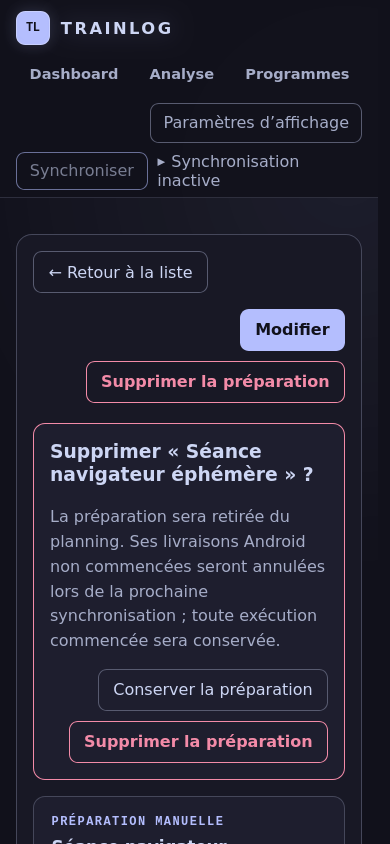
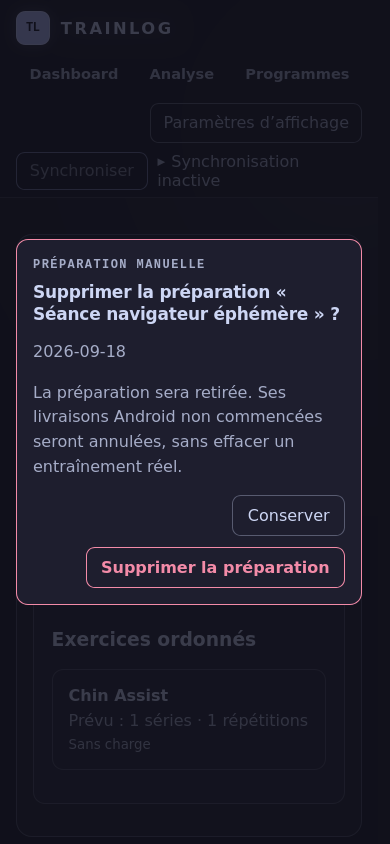
docs(web): document deletion and program v1

diff --git a/docs/program_format_v1.md b/docs/program_format_v1.md
@@ -1,0 +1,62 @@
+# Trainlog Program format V1
+
+`trainlog-program` V1 is a strict desktop import format for planning data. It
+does not change `TRAINLOG_FORMAT_V1` and is not an Android synchronization
+artifact.
+
+## Identity and ownership
+
+A program, each ordered session definition and each ordered exercise occurrence
+has a non-empty stable import identity of at most 128 UTF-8 bytes. The `pg_`,
+`pgs_`, and `pge_` UUIDv4 forms are recommended creator forms, while imported
+identities remain opaque. Display titles are not identities. A program is not a
+reusable session template, AI proposal, manual preparation, execution draft or
+completed session.
+
+Desktop schema v25 owns the imported program and its exact source SHA-256.
+Exact same-ID content replay is idempotent. The same ID with a different byte
+payload is an explicit conflict. A different ID may reuse a title because titles
+have no identity semantics.
+
+## Document shape
+
+The root has exactly `format`, `version`, and `program`, with format
+`trainlog-program` and integer version `1`. The program object has exactly:
+
+- `program_id`, `title`, nullable `note`, `state`, nullable `start_date`,
+  nullable `end_date`, and `sessions`;
+- state `active` on import;
+- 1–64 ordered sessions;
+- title length 1–200 UTF-8 bytes and note length at most 4,000;
+- canonical `YYYY-MM-DD` civil dates, with the end not before the start.
+
+Each session has exactly `program_session_id`, `title`, `session_type`, nullable
+`planned_for`, nullable `note`, and `occurrences`. Session type is `training` or
+`max_test`; each session contains 1–64 occurrences.
+
+Each occurrence has exactly `entry_id`, `exercise_id`, nullable `equipment_id`,
+`load_mode`, `rest_seconds`, nullable `target_sets`, nullable `target_reps`,
+nullable `target_duration_seconds`, nullable `target_weight_kg`, and nullable
+`notes`. Exercise and equipment identities must already resolve in the desktop
+catalog. Recording/tracking profiles and target/load combinations are validated
+by the same Core rules used for manual preparations. No actual set, MAX result,
+completion timestamp or other performed field is accepted.
+
+The complete UTF-8 JSON document is limited to 512 KiB. Duplicate object keys,
+unknown keys, non-finite numbers, invalid UTF-8, duplicate identities, excessive
+collections and incompatible profiles are rejected before any row is written.
+
+## Preview, commit and lifecycle
+
+The Web file picker sends bytes to the Core validation endpoint first. Its
+preview reports identity, title, dates, session count, unknown-exercise count
+and warnings while leaving the database unchanged. Import occurs only after the
+user confirms and commits all program/session/occurrence/source rows in one
+transaction.
+
+Archive is a revision-guarded lifecycle transition. It hides no derived data
+and retains the source definition and digest. Creating a preparation from one
+session is a separate idempotent command that copies the ordered plan and stores
+program/session provenance on a new `sp_<uuid-v4>` manual preparation. It does
+not create a delivery, Android object, execution draft, completed session or
+performed measurement.

diff --git a/docs/current_state.md b/docs/current_state.md
@@ -52,7 +52,7 @@ parallel implementation of its rules.
 | Boundary | Current state |
 |---|---|
 | Frozen project exchange | `TRAINLOG_FORMAT_V1=PASS/FROZEN` |
-| Desktop SQLite | schema v24 |
+| Desktop SQLite | schema v25 |
 | Android SQLite | schema v23 |
 | Mobile snapshot | V3 active; V1/V2 readable legacy inputs; explicit V4 codec staged, not selected by transport |
 | Desktop terminal backend | Notcurses only |
@@ -221,10 +221,11 @@ progression series, an original BODY ZONES SVG, and private versioned layout
 persistence with optimistic conflict and CSRF/Origin protection. It provides no
 automatic browser launch. Sessions provides complete paged preparation,
 resume and history views, stable details, optimistic manual-preparation writes,
-explicit proposal derivation and generation-backed Android delivery. Analyse,
-Programmes and Exercises remain explicit placeholders.
+explicit proposal derivation and generation-backed Android delivery. Programmes
+is implemented as the fourth Sessions subtab; Analyse and Exercises remain
+explicit placeholders, and no standalone Programs route exists.
 
-Desktop schema v24 owns immutable manual-preparation revisions, stable ordered
+Desktop schema v25 owns immutable manual-preparation revisions, stable ordered
 occurrences, persistent HTTP idempotency keys, delivery-to-execution identity,
 and durable revision-bound withdrawal records. Android schema v23 stores
 received preparations and permanent withdrawal results separately from AI
@@ -240,6 +241,19 @@ labels and persisted proposal provenance replace raw enums and digest-only
 presentation. The preparation detail exposes a protected, idempotent **Delete
 preparation** action; withdrawn rows remain technically inspectable but cannot
 be edited or delivered.
+
+Sessions rows expose independent right-edge trash actions and an accessible
+destructive confirmation dialog. Proposal withdrawal preserves derived
+preparations and is propagated by `trainlog-ai-session-drafts` V2; inactive
+execution drafts and completed sessions use revision-guarded causal deletion.
+Active or concurrently changed drafts conflict instead of being erased.
+
+Program V1 is desktop-owned planning data in schema v25. The Sessions Programs
+subtab lists, searches, filters, deep-links and archives programs. Local JSON
+import is strict and bounded, previews through Core before committing, and has
+deterministic replay/conflict behavior. One explicit program-session action
+creates a provenance-bearing manual preparation without Android delivery or
+performed work.
 
 The controlled deployment preserved the installed Android signing identity and
 advanced its private `versionCode` from 13 to 14 without uninstalling or

diff --git a/docs/reviews/web_sessions_delete_programs_v1_evidence.md b/docs/reviews/web_sessions_delete_programs_v1_evidence.md
@@ -1,0 +1,47 @@
+# Web Sessions deletion and Programs V1 evidence
+
+Date: 2026-09-18
+
+This pre-deployment record covers the completed development branch. It does not
+claim installation, migration of real data, service restart, phone validation,
+tagging or release publication.
+
+## Implemented boundaries
+
+- Separate Core commands withdraw manual preparations and AI proposals, or
+  causally delete inactive execution drafts and explicitly selected completed
+  sessions. They require current revisions and durable request identities.
+- Proposal withdrawal retains its import ledger and every derived preparation.
+  The V2 AI-proposal companion publishes a permanent Android tombstone; an
+  older V1 proposal cannot recreate it. Started executions and performed work
+  are not proposal-deletion effects.
+- The row trash action is independent from detail navigation. The accessible
+  confirmation dialog has initial safe focus, an Escape path, a focus trap and
+  trigger focus restoration.
+- Program V1 remains desktop planning data. Strict preview and transactional
+  import share the Core validator. Archive is lifecycle state, and explicit
+  preparation creation retains program/session provenance without delivery or
+  performed data.
+
+## Validation
+
+- GCC/Web Meson suite: 88/88 passed.
+- Clang strict suite: 86/86 passed.
+- Clang ASan/UBSan suite: 86/86 passed.
+- Frontend typecheck, production build and 93 Vitest tests passed.
+- Android `testDebugUnitTest` and `assembleDebug` passed.
+- JSON, import-contract and Python contract tests passed; the two Firefox tests
+  passed separately in an isolated temporary Python environment.
+- The real embedded server was exercised at desktop size and at an exact
+  390×844 viewport. Its synthetic-only captures include the Sessions list,
+  destructive confirmation and Programs empty state.
+- `tools/check_changed_c_format.sh main` and `git diff --check` passed.
+
+## Deployment gate
+
+Desktop schema v25 and proposal synchronization V2 require the grouped gate:
+retain the installed package, create consistent desktop and Android backups,
+validate v24→v25 migration on a database copy, verify Android package signing
+and monotonic versioning, then install/restart/synchronize and inspect the real
+Web routes only after explicit authorization. No operation in this record
+crossed that gate.

diff --git a/docs/sync_exchange.md b/docs/sync_exchange.md
@@ -40,7 +40,7 @@ available because availability is independently guarded by causal state.
 
 ## Machine-exercise Phase 1 compatibility
 
-Desktop schema v24 and Android schema v23 retain mobile export V3, readable V1/V2 imports,
+Desktop schema v25 and Android schema v23 retain mobile export V3, readable V1/V2 imports,
 equipment definitions V1, equipment associations V2, exercise aliases V1, and
 the BODY ZONES companion without wire-format changes. Machine metadata is not
 silently added to a frozen artifact: stable exercise IDs and canonical names
@@ -143,7 +143,7 @@ does not publish to it or let it override an artifact in the new endpoint.
 | PC -> Android | `trainlog-equipment-associations-v2.json` | `trainlog-equipment-associations` v2 |
 | PC -> Android | `trainlog-exercise-body-zones-v1.json` | `trainlog-exercise-body-zones` v1 |
 | PC -> Android | `trainlog-exercise-aliases-v1.json` | `trainlog-exercise-aliases` v1 |
-| PC -> Android | `trainlog-ai-session-drafts-v1.json` | `trainlog-ai-session-drafts` v1 companion |
+| PC -> Android | `trainlog-ai-session-drafts-v1.json` | `trainlog-ai-session-drafts` v1/v2 companion; v2 adds proposal withdrawals |
 | Android -> PC agent | `trainlog-sync-request-v1.json` | `trainlog-sync-request` v1 |
 | PC agent -> Android | `trainlog-sync-receipt-v1.json` | `trainlog-sync-receipt` v1 |
 
@@ -522,7 +522,11 @@ retryable desktop status and never undoes the committed import. The desktop
 outbound companion selects at most 256 not-yet-published proposals in stable
 creation/identity order. Successful MTP publication transactionally marks only
 that exact batch; failure leaves it unchanged for retry, while later normal
-syncs drain further batches. The permanent Drive import ledger is independent.
+syncs drain further batches. V2 additionally carries at most 256 permanent
+proposal withdrawals. Desktop admission keeps the complete withdrawal set
+within that bound. Android stores each as a deleted tombstone before removing
+pending proposal entries, so an older V1 replay cannot resurrect the proposal.
+The permanent Drive import ledger is independent.
 The inbound outcome (`NONE`, `IMPORTED`, `ALREADY_IMPORTED`, `REJECTED`,
 `DRIVE_FAIL`, or `ARCHIVE_FAIL`) is retained in the successful sync report and
 history; fetched-invalid, Drive, and archive outcomes do not fail an otherwise

diff --git a/docs/web_sessions.md b/docs/web_sessions.md
@@ -1,10 +1,12 @@
 # Web Sessions V1
 
-The Sessions route implements three distinct views:
+The Sessions route implements four distinct views:
 
 - Preparation: manual preparations and immutable AI proposals;
 - Resume: lifecycle-backed execution drafts, continued only on Android;
 - History: completed sessions, including explicit unknown end times.
+- Programs: durable desktop planning definitions, import and explicit manual
+  preparation creation.
 
 Manual preparation supports a title, session type, optional calendar date,
 note, catalogue selection, duplicate occurrences, keyboard reordering,
@@ -58,5 +60,22 @@ The tombstone rejects an older delivery replay, including after process restart.
 Desktop marks a withdrawal acknowledged only after the correlated Android
 generation ACK. Until then Web reports that Android synchronization is pending.
 
+Every deletable row has a separate right-edge trash action with an accessible
+target. It never opens the detail. A focus-managed `alertdialog` names the item,
+kind, relevant date and consequence; Cancel and Escape write nothing. Proposal
+deletion records a durable logical withdrawal and publishes a bounded V2
+proposal tombstone without deleting derived preparations or performed work.
+Inactive execution drafts and completed sessions use the existing causal
+operation/state boundary. Active or stale drafts conflict, and completed-session
+deletion records a finalization so older snapshots cannot recreate the session.
+
+Programs are planning data owned by desktop schema v25. Import first runs the
+same strict Core validator in preview mode, then commits only after explicit
+confirmation. Exact content replay is idempotent; same-ID divergent content is
+a conflict. Archiving preserves definitions and derived preparations. Creating
+a preparation from one program session copies targets and provenance into a
+new manual preparation but creates no delivery, execution or performed data.
+See [Program format V1](program_format_v1.md).
+
 This V1 does not provide live Web capture, historical correction, automatic
-training generation, Programs, Analysis or the standalone Exercises route.
+training generation, Analysis or the standalone Exercises route.

diff --git a/docs/roadmap.md b/docs/roadmap.md
@@ -24,7 +24,7 @@ distinction between measured values and estimates.
 
 ## Current baseline
 
-Desktop schema v24, Android schema v23, Notcurses, direct
+Desktop schema v25, Android schema v23, Notcurses, direct
 `Documents/Trainlog` storage, mobile export V3, Training Knowledge V1, Body
 Zones V1, Training Feedback V1/V2, STATS V1, and Session Generator V1 are
 implemented. Session Generator V1 is hidden pending V2. AI session-draft
@@ -33,7 +33,9 @@ exchange and APP_SHELL_V1 retain their explicit manual validation/review gates.
 CLI/HTTP infrastructure, embedded frontend shell and the frozen Dashboard data
 contract, frozen interactive grid, versioned layout persistence and factual
 tile rendering exist. The Dashboard's bounded progression and BODY ZONES
-visualizations and Sessions V1 are implemented; the other three Web routes remain placeholders.
+visualizations and Sessions V1 are implemented. Programs is implemented inside
+Sessions; Analyse, Exercises and the standalone top-level Programs route remain
+placeholders or out of scope.
 The corrective prepared-item projection, bounded phase-owned MTP outbox,
 Sessions presentation correction, local date preference and durable preparation
 withdrawal are implemented. The withdrawal uses the separate versioned
@@ -55,8 +57,9 @@ transactional consumption, durable correlated ACK and restart/replay entry
 points. The orchestrator, Web API and Web control are complete behind an
 explicit trusted opt-in. The authorized private direct-MTP rollout passed on
 real hardware; automatic V3 selection remains unchanged without that opt-in.
-The next separately contracted Web surface is Exercises. Sessions V1 is
-complete in software and is not reopened by that future contract.
+The next separately contracted Web surface is Exercises. Sessions deletion and
+its Programs subtab are complete in software and are not reopened by that
+future contract.
 
 `TRAINLOG_SYNC_GAP_CONTRACT_V1=CONTRACT_FROZEN / IMPLEMENTATION_IN_PROGRESS`
 defines the complete-sync target and its bounded dependency order.

diff --git a/docs/tests.md b/docs/tests.md
@@ -41,6 +41,23 @@ The C MTP regression keeps a malformed retained generation beside the current
 reference and proves that pull downloads only the referenced generation while
 still rejecting a truncated object inside that current generation.
 
+`web_session_deletions` exercises proposal withdrawal replay, preservation of a
+derived preparation, active-draft conflict, causal draft/session deletion and
+completed-session finalization. The HTTP suite covers stale and successful
+proposal DELETE requests and post-delete deep-link absence. Vitest covers the
+focus-managed confirmation, Cancel and Escape zero-mutation paths, the real
+DELETE call and focus restoration. AI companion tests prove that V2 exports a
+withdrawal without the proposal and that Android's tombstone rejects later V1
+replay.
+
+`web_programs` exercises validation preview without writes, transactional
+import, exact replay, detail serialization, archive replay, preparation
+creation, provenance and absence of delivery. Schema migration coverage checks
+all v25 tables and columns. Programs Vitest covers preview before the only
+importing mutation and explicit preparation creation/navigation. The full HTTP,
+pagination, strict-parser and Core suites retain malformed, duplicate-key,
+bounds, catalog/profile/equipment, conflict and rollback coverage.
+
 `test_web_sessions_browser.py` runs headless Firefox against the embedded
 production assets and C HTTP server with private temporary XDG roots. It creates
 only a synthetic ready preparation and delivery, verifies French then persisted

diff --git a/docs/android.md b/docs/android.md
@@ -6,7 +6,9 @@ preparation is inert until explicit start; an occupied singleton is never
 overwritten. Starting preserves the desktop-reserved execution `session_id`,
 copies targets only and creates no performed facts.
 
-Android schema v23 adds the durable manual-preparation withdrawal ledger.
+Android schema v23 adds the durable manual-preparation withdrawal ledger. The
+schema is unchanged by Web proposal withdrawal: the existing durable AI draft
+state stores the V2 companion's `deleted` tombstone.
 Consumption is part of the outer generation transaction. Exact pending
 deliveries are changed to `cancelled`; exact started deliveries remain started,
 and their active or completed execution data is untouched. The stored result is
@@ -93,7 +95,9 @@ most 64 contiguous ordered SETS entries, target sets 1..99 and REPS targets
 1..999 (or the profile-required duration target). Entries must match the
 resolved exercise profile and known equipment.
 
-Pending proposals can be explicitly started or deleted. Start is one local
+Pending proposals can be explicitly started or deleted. A desktop V2 proposal
+withdrawal uses that same permanent tombstone boundary, removes only proposal
+entries, and leaves started drafts and performed sessions untouched. Start is one local
 transaction: it refuses when the singleton active draft exists, copies targets
 only, marks the proposal `started`, and removes its proposal entries. Delete
 is gated by a destructive confirmation naming the proposal; Cancel, Back and

diff --git a/docs/design/web_sessions_v1.md b/docs/design/web_sessions_v1.md
@@ -4,12 +4,13 @@ Status: implementation contract for `TRAINLOG_WEB_SESSIONS_V1`.
 
 ## Scope and domain boundaries
 
-The Sessions route has three independent views:
+The Sessions route has four independent views:
 
 - Preparation lists manual preparations and immutable imported AI proposals.
 - Resume lists lifecycle-backed execution drafts that are not finalized or causally deleted.
 - History lists completed sessions. A missing `ended_at` is rendered as an unknown end time; it
   does not make a historical row an active draft.
+- Programs lists durable planning definitions and can explicitly derive a manual preparation.
 
 An AI proposal is never mutated by viewing it or by deriving a manual preparation. Derivation is
 an explicit command which creates a new `sp_<uuid-v4>` preparation and records the proposal ID and
@@ -78,6 +79,10 @@ generation containing it is published.
 
 ## Explicit exclusions
 
-This V1 does not implement Programs, Analysis, or the standalone Exercises route. It does not add
+Program V1 and its import boundary are specified separately in
+[`program_format_v1.md`](../program_format_v1.md). They do not turn a program
+into a template, proposal, draft or completed session.
+
+This V1 does not implement Analysis or the standalone Exercises route. It does not add
 live Web workout capture, historical correction, automatic training prescriptions, proposal
 acceptance, or automatic proposal-to-execution conversion.

diff --git a/docs/database.md b/docs/database.md
@@ -1,5 +1,19 @@
 # Desktop database
 
+## Schema v25: Web deletion requests and Program V1
+
+Schema v25 adds durable Program V1 definitions, their ordered session and
+occurrence children, immutable import digests, request replay records and
+source provenance on derived manual preparations. It also adds the bounded Web
+session-deletion request ledger and nullable AI-proposal `withdrawn_at` state.
+Program import and each application command are transactional. Program rows
+contain planning targets only and cannot own performed sets.
+
+Proposal deletion is logical. Draft and completed-session deletion append an
+immutable causal operation and advance deleted causal state in the same
+transaction; completed sessions also receive a durable deleted finalization.
+These paths do not implement a generic cascading browser delete.
+
 ## Schema v24: durable preparation withdrawal
 
 Schema v24 adds nullable `session_preparations.withdrawn_at` and the immutable
@@ -37,8 +51,8 @@ is a later, separately versioned migration.
 ## 1. Status
 
 ```text
-TRAINLOG_DATABASE_SCHEMA_VERSION=23
-DATABASE_SCHEMA_V23=IMPLEMENTED
+TRAINLOG_DATABASE_SCHEMA_VERSION=25
+DATABASE_SCHEMA_V25=IMPLEMENTED
 TRAINLOG_FORMAT_V1=FROZEN
 ```
 
@@ -57,7 +71,7 @@ PRAGMA user_version;
 Current value:
 
 ```text
-23
+25
 ```
 
 The independent actual-set loads documented in the current desktop, Android

diff --git a/CHANGELOG.md b/CHANGELOG.md
@@ -2,6 +2,20 @@
 
 ## Unreleased — 0.1.2
 
+- Completed Web Sessions deletion and Program V1 on desktop schema v25. Separate
+  revision-guarded Core commands now withdraw manual preparations and AI
+  proposals or causally delete inactive execution drafts and selected completed
+  sessions. The accessible trash confirmation preserves derived preparations,
+  active/concurrent drafts and unrelated performed history; proposal withdrawals
+  use the bounded `trainlog-ai-session-drafts` V2 tombstone extension to prevent
+  legacy replay resurrection on Android.
+
+- Added Programs as the fourth Sessions subtab with complete paged listing,
+  search/state filtering, stable detail links, archival, strict bounded
+  `trainlog-program` V1 import preview and transactional commit. An explicit
+  program-session action creates a distinct provenance-bearing manual
+  preparation without automatic Android delivery or performed data.
+
 - Completed the controlled Web Sessions presentation/withdrawal rollout on the
   paired private installation. Desktop migrated from schema v23 to v24 and
   Android from v22 to v23 without clearing application data. The requested

diff --git a/docs/README.md b/docs/README.md
@@ -16,6 +16,8 @@ evidence and chronology.
 
 - [Web Sessions V1](web_sessions.md) owns the implemented preparation, resume,
   history and Android-delivery workflow.
+- [Program format V1](program_format_v1.md) owns the strict desktop planning
+  import contract used by the Sessions Programs subtab.
 
 - [Android](android.md) owns field-companion capture, local persistence,
   glanceable summaries, permissions, and Android interaction rules.
